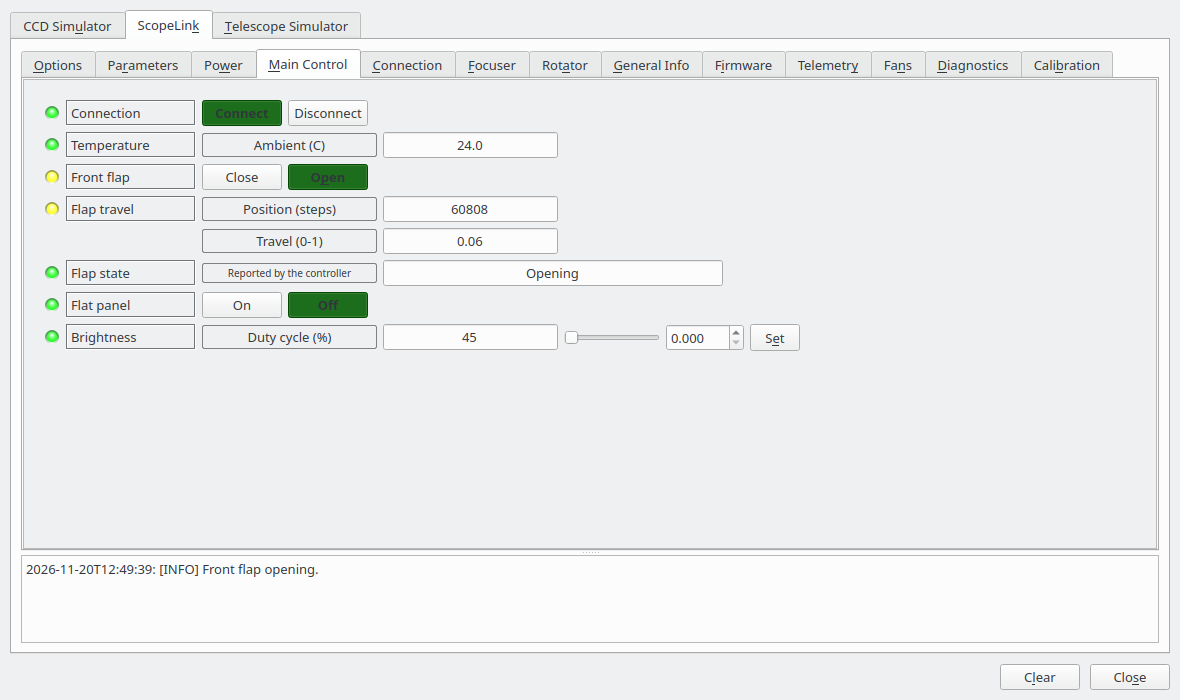
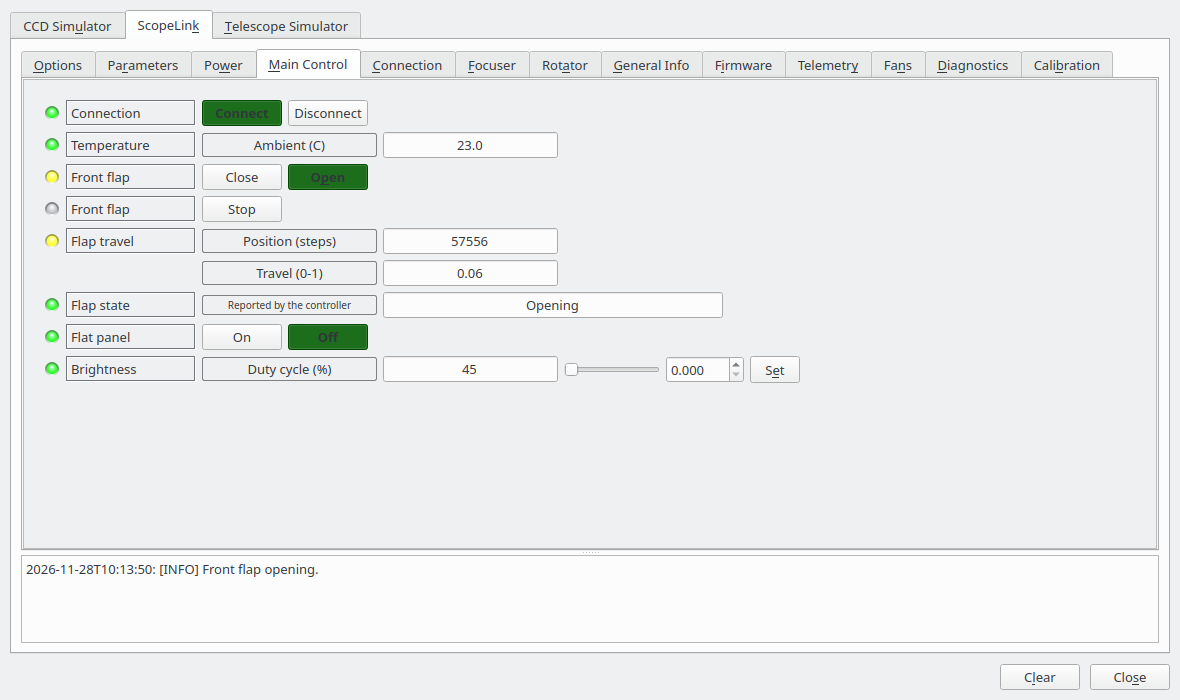
scopelink: motor positions, the flap's stop and fault details, for driver 1.4
The page describes the four additions of driver 1.4: Stop under the front
flap, every motor's position and motion on the Telemetry tab, the controller
group shown without an option, and Fault details and Clear one fault on the
Diagnostics tab. Troubleshooting gains the fault store error that an older
driver shows on current firmware.

Four screenshots retaken from a generation 4 unit: Options, Main Control,
the bottom of Telemetry and Diagnostics.

diff --git a/src/content/docs/focusers/astrolabs/scopelink/scopelink.md b/src/content/docs/focusers/astrolabs/scopelink/scopelink.md
@@ -162,9 +162,6 @@ Two options are worth setting before the first connection, on the **Options** ta
   driver connects, so changing it while connected has no effect until you reconnect. On a controller
   from interface 1.1 the multiplier is held in the controller instead and this setting is ignored; see
   the Focuser tab below.
-- **Controller diagnostics** — off by default. Turning it on adds the controller's own die temperature,
-  supply rail, CPU and stack load and I²C error counter to the Telemetry tab. These are for
-  fault-finding, not for observing.
 - **Simulated hardware** — which controller the driver imitates while **Simulation** is on. Ignored
   otherwise. Four entries for three generations, because a generation is not a frame layout: the same
   generation 3 board runs interface 1.0 and 1.1, and 1.1 is a different layout rather than a different
@@ -254,9 +251,11 @@ reach is decided by its calibrated travel, which is measured rather than typed i
 The flap is published as a dust cap, so Ekos opens and closes it as part of a sequence without being
 asked each time.
 
-**Park** closes the flap, **Unpark** opens it. The raw motor position and the fraction of travel are
-shown alongside, which is useful while calibrating; on a flap of several parts they are the first part's,
-and **Flap state** is what describes the flap as a whole.
+**Park** closes the flap, **Unpark** opens it, and **Stop** under it stops the flap where it is,
+abandoning the rest of the sequence. The raw motor position and the fraction of travel are shown
+alongside, which is useful while calibrating; on a flap of several parts they are the first part's, and
+**Flap state** is what describes the flap as a whole. A flap stopped part way says so, and opens or closes
+again from there.
 
 If the driver connects and finds the flap stopped somewhere between its end stops — after a power cut
 mid-travel, for instance — it reports the state as unknown and **does not move it**. Close or open it
@@ -265,7 +264,7 @@ once to re-establish where it is.
 A flap made of more than one part needs every part calibrated before it is offered as a dust cap: a flap
 with one calibrated half cannot be opened any more than one with none can.
 
-![The Main Control tab, with the front flap opening and the flat panel below it](./images/main-control.webp)
+![The Main Control tab, with the front flap opening, Stop under it, and the flat panel below](./images/main-control.webp)
 
 ## Flat panel (light box)
 
@@ -279,7 +278,9 @@ the panel on with the brightness at zero produces no light, and the driver says 
 ## Telemetry
 
 Read-only. Supply, rear fan and side fan rail voltages; ambient and mirror temperature and the
-difference between them; and the load on each motor.
+difference between them; and, for each motor, its load, its position in its own steps, and whether it is
+turning clockwise, counterclockwise or halted. The motors are numbered as the controller numbers them,
+whatever they drive, so a move made from the Calibration tab shows here too.
 
 What the sensor module measures decides which of these appear. Every module measures the air, so the
 focuser's temperature is there on all of them; the mirror and the difference need the infrared sensor,
@@ -325,11 +326,11 @@ the module is not fitted with Z along the tube at all. It is kept in the driver'
 controller, and is shown beside the switch as the direction the accelerometer read as up; all zeros means
 there is no reference.
 
-With **Controller diagnostics** enabled in Options, a second group appears with the sensor module
-supply, the controller's own supply and die temperature, CPU and peak CPU load, stack usage and the I²C
-error counter.
+At the bottom, **Controller** shows the sensor module supply, the controller's own supply and die
+temperature, CPU and peak CPU load, stack usage and the I²C error counter. These are for fault-finding, not
+for observing.
 
-![The bottom of the Telemetry tab, with controller diagnostics enabled](./images/telemetry-diagnostics.webp)
+![The bottom of the Telemetry tab, with the motors and the controller's own readings](./images/telemetry-diagnostics.webp)
 
 ## Fans
 
@@ -440,10 +441,16 @@ generation 2 one; values that generation does not hold are skipped.
   present reappears immediately, which is the point of reading it back.
 - **Read EEPROM counters** — the wear counters for the controller's configuration memory.
 
+**Fault details** carries the same faults as the store, each as one line of JSON for a program to read:
+the number the controller sends for it, its name, whether it is active, how often it has been seen, its
+additional data, its timestamp, and the whole freeze frame. **Clear one fault** clears the one stored code
+whose number is typed into it, leaves the rest, and reads the store back; a number the store does not hold
+is refused.
+
 **Link health** shows the transaction, retry and failure counts for the serial link, and how old the
 most recent status sample is. Retries are normal on a busy USB bus; a rising failure count is not.
 
-![The Diagnostics tab, with an empty fault store and the EEPROM wear counters](./images/diagnostics.webp)
+![The Diagnostics tab with three faults stored, their details, and fault 35 about to be cleared on its own](./images/diagnostics.webp)
 
 ## Calibration
 
@@ -542,6 +549,11 @@ health readout on the Diagnostics tab shows whether the link was struggling befo
 **No temperature readings.** Either the unit has no infrared sensor fitted — in which case the
 properties are not offered at all — or the sensor has stopped answering, in which case they go to alert
 and a fault is stored. Read the fault store to tell the two apart.
+
+**"The fault store could not be read: No valid response to command 0x05".** The driver is older than 1.4
+and the controller is holding at least one fault. Firmware from August 2026 on answers the way those
+drivers ask for the fault store with nothing. Update the driver: an older one still counts the stored
+faults on the Diagnostics tab, but can neither list nor clear them.
 
 **The flap state is reported as unknown.** It stopped between its end stops, most likely because power
 was lost mid-travel. Close or open it once to re-establish where it is.
